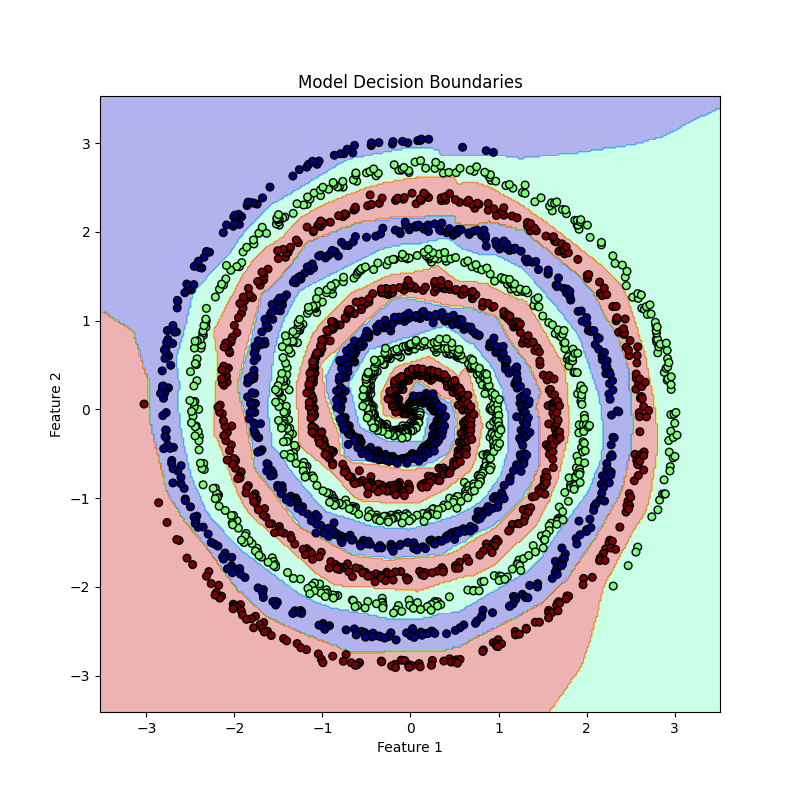
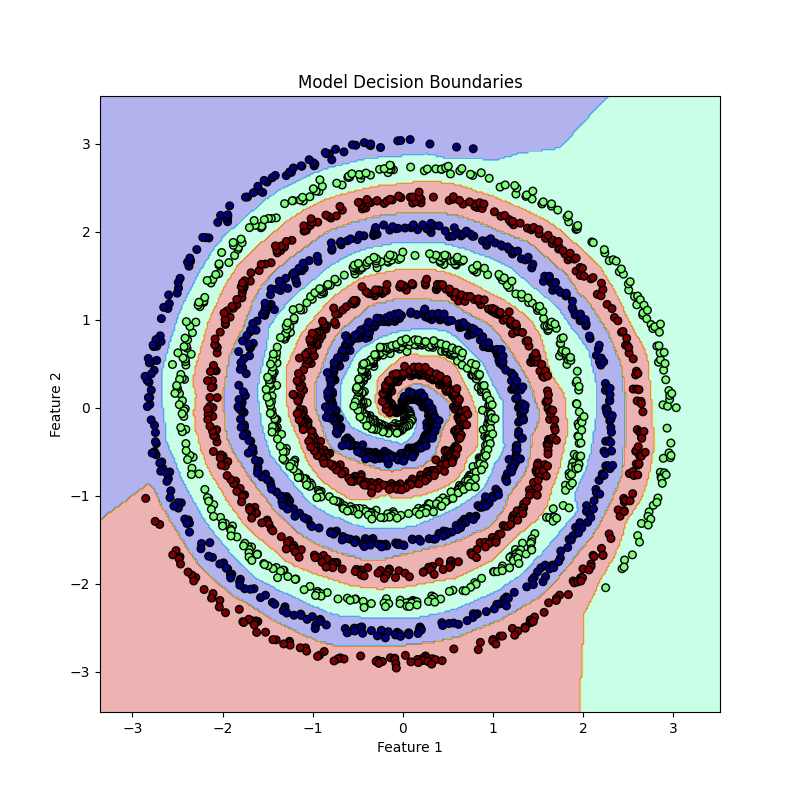
loss threshold and dropout

diff --git a/nn_lib/models.py b/nn_lib/models.py
@@ -60,8 +60,18 @@ class Model:
         else:
             self._optimizer = value
 
-    def train(self, X: np.ndarray, Y: np.ndarray, epochs: int = 10, batch_size: int = 32, update_interval: float=0.5) -> None:
+    def train(self, X: np.ndarray, Y: np.ndarray, epochs: int = 10, batch_size: int = 32,
+        loss_threshold: float=None, update_interval: float=0.5) -> None:
+        
+        # Toggle training flag
+        for layer in self.layers:
+            if hasattr(layer, 'training'):
+                layer.training = True
+        
         n_samples = X.shape[-1]
+        n_batches = (n_samples + batch_size - 1) // batch_size
+    
+        print(f"Training started: {n_samples} samples, {n_batches} batches per epoch.")
 
         for epoch in range(epochs):
             indices = np.random.permutation(n_samples)
@@ -95,7 +105,17 @@ class Model:
 
                 pbar.set_postfix({'loss': f'{(epoch_loss / n_batches):.4f}'}, refresh=False)
 
+            if loss_threshold and epoch_loss / n_batches < loss_threshold:
+                print(f"Loss threshold reached: Loss={epoch_loss / n_batches:.6f} <= Threshold={loss_threshold}")
+                print("Training finished.")
+                break
+
     def predict(self, X: np.ndarray) -> np.ndarray:
+        # Toggle training flag
+        for layer in self.layers:
+            if hasattr(layer, 'training'):
+                layer.training = False
+
         Y_hat = self.forward(X)
         
         # If the loss class specifies an activation, use it

diff --git a/nn_lib/layers.py b/nn_lib/layers.py
@@ -237,3 +237,34 @@ class MaxPooling2D(Layer):
             'pool_size': self.pool_size,
             'strides': self.strides
         }
+
+class Dropout(Layer):
+    def __init__(self, rate: float=0.2):
+        super().__init__()
+        self.built = True
+
+        self.rate = rate
+        self.mask = None
+        self.training = True  
+
+    def forward(self, inputs: np.ndarray) -> np.ndarray:
+        if not self.training or self.rate == 0:
+            return inputs
+        
+        # Create a binary mask: 1 with probability (1 - rate), 0 with probability rate
+        # We use 'Inverted Dropout' by dividing by (1 - rate) so that the expected 
+        # sum of activations remains the same during training and testing.
+        keep_prob = 1 - self.rate
+        self.mask = np.random.binomial(1, keep_prob, size=inputs.shape) / keep_prob
+        
+        return inputs * self.mask
+
+    def backward(self, grad_output: np.ndarray) -> np.ndarray:
+        # Only the neurons that were 'active' in the forward pass 
+        # allow the gradient to flow back.
+        return grad_output * self.mask
+    
+    def get_config(self):
+        return {
+            'rate': self.rate
+        }

diff --git a/examples/spiral.py b/examples/spiral.py
@@ -25,8 +25,7 @@ def main():
     Y_one_hot = np.eye(NUM_CLASSES)[Y].T
 
     # Train
-    print("Training started...")
-    model.train(X, Y_one_hot, epochs=500)
+    model.train(X, Y_one_hot, epochs=1000)
 
     plot_spiral_data(X, Y, model)
 
@@ -49,7 +48,7 @@ def plot_spiral_data(X, Y, model):
     grid_points = np.c_[xx.ravel(), yy.ravel()].T
 
     # Forward pass through the model
-    Z_raw = model.forward(grid_points)
+    Z_raw = model.predict(grid_points)
     # Get the predicted class
     Z = np.argmax(Z_raw, axis=0) 
 

diff --git a/nn_lib/activations.py b/nn_lib/activations.py
@@ -29,6 +29,7 @@ class Sigmoid(Layer):
     def backward(self, dA: np.ndarray) -> np.ndarray:
         return dA * self.A * (1 - self.A)
 
+
 class Softmax(Layer):
     def __init__(self):
         super().__init__()
